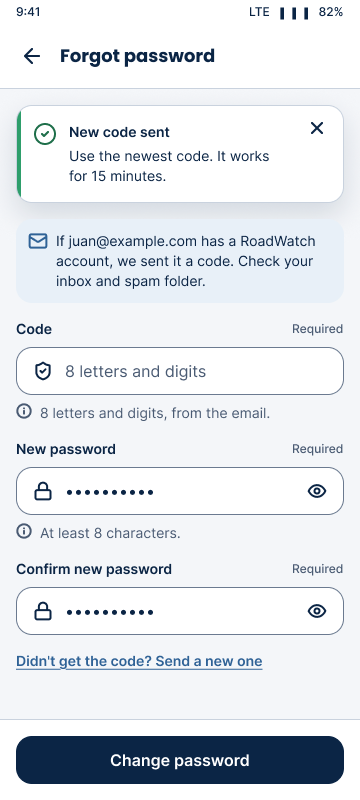
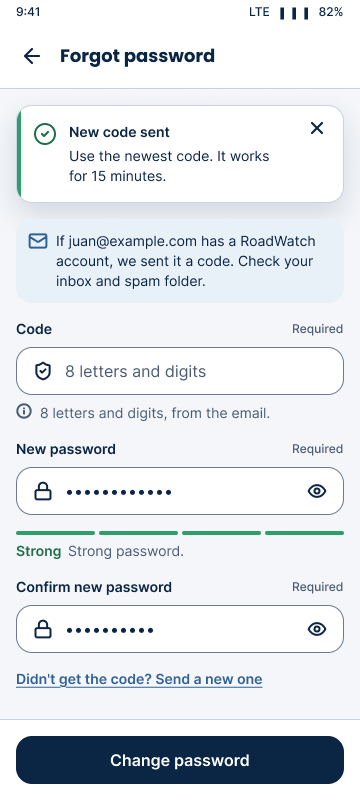
docs: password strength meter (#44): DECISIONS #44, API rule, test cases, Figma index and re-exported screens

Changed region(s): [[0.0306, 0.6562, 0.9778, 0.875]]

diff --git a/docs/API.md b/docs/API.md
@@ -11,6 +11,17 @@ Values that must match the database exactly:
 - **Injury:** `none`, `injuries`, `fatalities`, `unknown`
 - **record_type:** `public_submission` or `verified_record` (the response also has `is_verified_record`; show a clear Verified/Public badge)
 
+**Password strength (#44, DECISIONS #44).** Every endpoint that sets a new password (register, `POST /users`,
+change password, reset password, admin reset) refuses a password that is not **Strong** with **400**
+`"Make the password Strong to save it."` under the password field (`details.password` or `details.new_password`).
+Kinds of character: lowercase, uppercase, number, symbol. Weak: under 8 characters, one kind, a common password
+(`password`, `qwerty`, `12345678`, also with numbers or symbols added at the end or look-alike swaps such as `P@ssw0rd`),
+or containing the account's name or email. Fair: 8+ with 2 kinds. Good: 8+ with 3 kinds, or 12+ with 2. **Strong: 8+
+with all 4 kinds, or 12+ with 3.** The rule lives in `api/src/utils/passwordStrength.js`; the web
+(`web/src/lib/passwordStrength.js`) and the app (`mobile/lib/core/password_strength.dart`) use the same rules for the
+meter. Login is unchanged, so existing passwords keep working. `npm run seed:admin` refuses a non-Strong `ADMIN_PASSWORD`.
+
+
 ## Public
 
 | Method and path | Body | Notes |
@@ -19,13 +30,13 @@ Values that must match the database exactly:
 | GET `/app-info` | | `{"demoVideoUrl": string or null}` |
 | GET `/public/stats` | | Landing stats bar (#40): `{ reports_received, verified_records, cases_resolved, active_officers }`. Counts only, no personal data. Rate limited (60 a minute per IP, `PUBLIC_RATE_LIMIT`), `Cache-Control: max-age=60`. |
 | GET `/public/updates` | | Landing "Public road updates" (#23): up to 20 `verified_record` reports whose accident date is in the last 7 days, newest first. Each item: `report_id`, `accident_type: { type_name }`, `accident_date`, `accident_time`, `accident_location`, `latitude`, `longitude` (numbers or null), `report_status`, `record_type`. Never reporter or contact fields, description, remarks or photos. Same rate limit and cache as `/public/stats`. |
-| POST `/auth/register` | `full_name`, `contact_email`, `password` (8+), `contact_phone?` | Always a Reporter. Returns `{ user, token }`. |
+| POST `/auth/register` | `full_name`, `contact_email`, `password` (Strong, see below), `contact_phone?` | Always a Reporter. Returns `{ user, token }`. |
 | POST `/auth/login` | `contact_email`, `password`, `platform` (`web` or `mobile`, required) | Returns `{ token, user: { user_id, full_name, contact_email, contact_phone, role } }`. Use `user.role` for the role-based redirect. Platforms (#36): Reporter and Traffic Officer sign in with `mobile`, Administrator with `web`. A correct password on the wrong platform returns **403** `{ success: false, error, details: { code: "WRONG_PLATFORM", platform } }`, where `details.platform` is the platform the account must use; it is written to the audit log as `auth.login_wrong_platform`. A correct password on a deactivated account returns **403** `details.code = "ACCOUNT_DEACTIVATED"` (#40), shown as "Account deactivated" in the apps. A wrong password or unknown email always returns 401 first, so neither message reveals whether an email exists. A missing or unknown `platform` returns 400. |
 | GET `/auth/me` | | Current user |
 | PATCH `/auth/me` | `full_name`, `contact_phone?` (string or `null` to clear) | Edit own profile (#25). Email and role cannot be changed here (extra fields are ignored). Returns `{ user }`. Audit: `account.profile_updated`. |
-| PATCH `/auth/me/password` | `current_password`, `new_password` (8+, different from the current one) | Change own password (#25). A wrong current password is **400** with `details.current_password` (not 401, so the apps keep the session). Rate limited like login. Existing tokens stay valid. Audit: `account.password_changed`. |
+| PATCH `/auth/me/password` | `current_password`, `new_password` (Strong, different from the current one) | Change own password (#25). A wrong current password is **400** with `details.current_password` (not 401, so the apps keep the session). Rate limited like login. Existing tokens stay valid. Audit: `account.password_changed`. |
 | POST `/auth/forgot-password` | `contact_email` | Forgot password, step 1 (#37, every role). Always **200** with the same message, whether or not the email has an account (or the account is deactivated). For an active account it emails an 8-character code (letters and digits, no 0/O/1/I/L), valid **15 minutes**. The code is not stored: it is an HMAC of the user id, the current password hash and the minute, keyed with `JWT_SECRET`, so it stops working once the password changes. Rate limited like login. Audit: `auth.password_reset_requested`. |
-| POST `/auth/reset-password` | `contact_email`, `reset_code`, `new_password` (8+) | Forgot password, step 2. Case, spaces and dashes in the code do not matter. A wrong or expired code, an unknown email and a deactivated account all get the same **400** `This code is wrong or has expired. Send a new code.` with `details.reset_code`. Other signed-in devices stay signed in. Emails the user that the password changed. Audit: `account.password_reset`. |
+| POST `/auth/reset-password` | `contact_email`, `reset_code`, `new_password` (Strong) | Forgot password, step 2. Case, spaces and dashes in the code do not matter. A wrong or expired code, an unknown email and a deactivated account all get the same **400** `This code is wrong or has expired. Send a new code.` with `details.reset_code`. Other signed-in devices stay signed in. Emails the user that the password changed. Audit: `account.password_reset`. |
 | GET `/auth/me/activity` | `period` (`7d`, `30d` default, `90d`, `all`), `action?`, `page`, `limit` | Action log, own actions (#27). Rows: `{ log_id, user_id, action_taken, action_details (object), timestamp }` plus `pagination`. `action` matches exactly (`auth.login`) or as a group (`user` matches `user.*`). User ids inside `action_details` come with names (`target_name`, `officer_name`). |
 
 ## Any logged-in user
@@ -62,11 +73,11 @@ Values that must match the database exactly:
 | PATCH `/admin/reports/:id/status` | `status`, `remarks?`, `rejection_reason` (required when `Rejected`) | Not for `Assigned` (use assign). `Verified` sets `record_type = verified_record`. |
 | PATCH `/admin/reports/:id/assign` | `officer_id`, `remarks?` | Sets status `Assigned`. The report must be **Verified** first (#30), or already have an officer (re-assign); never Rejected or Resolved/Closed. The officer must be an active Traffic Officer. |
 | POST `/admin/accident-types` | `type_name` | Add a category |
-| POST `/users` | `full_name`, `contact_email`, `password`, `role`, `contact_phone?` | Creates Traffic Officers (or any role) |
+| POST `/users` | `full_name`, `contact_email`, `password` (Strong), `role`, `contact_phone?` | Creates Traffic Officers (or any role) |
 | GET `/users` | `role?` | |
 | PATCH `/users/:id/role` | `role` | Not on yourself |
 | PATCH `/users/:id/active` | `is_active` (boolean) | Deactivate or reactivate. Not on yourself. |
-| PATCH `/users/:id/password` | `new_password` (8+) | Admin reset (#37): sets a temporary password for a Reporter or Traffic Officer, which the admin gives to the person directly. **400** on yourself (use Change password) or on another Administrator (they use Forgot password). The user gets an email that the password was reset, never the password. Audit: `user.password_reset`. |
+| PATCH `/users/:id/password` | `new_password` (Strong) | Admin reset (#37): sets a temporary password for a Reporter or Traffic Officer, which the admin gives to the person directly. **400** on yourself (use Change password) or on another Administrator (they use Forgot password). The user gets an email that the password was reset, never the password. Audit: `user.password_reset`. |
 | GET `/admin/audit-logs` | same as `/auth/me/activity`, plus `user_id?` | Action log, "All staff" view (#27): actions by Administrators and Traffic Officers (reporters left out); each row adds `user: { user_id, full_name, role }`. |
 | GET `/dashboard/stats` | | `cards` (total, pending, verified, closed), `by_status`, `by_type`, `trend` (last 30 days), `hotspots`, `map_points`, `recent` |
 | GET `/exports/summary` | `period` = daily, weekly, monthly or annual; `date?` (YYYY-MM-DD) | FR-12 summary JSON |

diff --git a/CLAUDE.md b/CLAUDE.md
@@ -104,6 +104,7 @@ Clients ─► OpenStreetMap tiles and Nominatim directly
 `/api/auth` (register is public and always creates a Reporter, ignoring any client role; login rejects inactive users), `/api/reports` (create, my reports, track), `/api/admin/reports` (filter, verify, assign, status), `/api/officer/reports` (assigned, remarks, status), `POST /api/users` (admin only, creates Traffic Officers), user role change and deactivate or reactivate (admin only), `/api/dashboard/stats`, `/api/exports`, `/api/app-info`, `GET /api/public/stats` (public totals for the landing, #40).
 **Added Oct 21 (approved Oct 17):** `PATCH /api/auth/me` and `PATCH /api/auth/me/password` (own profile and password, #25); `GET /api/public/updates` (public, verified records from the last 7 days, no reporter fields, #23; feeds the landing's "Public road updates", #24); `GET /api/auth/me/activity` and admin-only `GET /api/admin/audit-logs` (Action log, #27).
 **Added Oct 25 (#37, DECISIONS #43):** public `POST /api/auth/forgot-password` and `POST /api/auth/reset-password` (8-character emailed code, 15 minutes, works once, not stored: HMAC of user id + password hash + minute keyed with `JWT_SECRET`; same answer for unknown emails) and admin-only `PATCH /api/users/:id/password` (temporary password for a Reporter or Traffic Officer; not self, not other admins; emailed without the password).
+**Added Oct 27 (#44, DECISIONS #44):** every endpoint that sets a new password (register, `POST /users`, change, reset, admin reset) refuses a password that is not **Strong** (400 "Make the password Strong to save it."); rules in `api/src/utils/passwordStrength.js`, mirrored in `web/src/lib/passwordStrength.js` and `mobile/lib/core/password_strength.dart` for the meter; `seed:admin` refuses a non-Strong `ADMIN_PASSWORD`. Login is unchanged.
 
 ---
 
@@ -256,7 +257,7 @@ Rules: every status change writes a `report_status_history` row; important admin
 | api | `npm start` | `node server.js`, default port 5000 |
 | api | `npm test` | `node --test` (auto-discovers `tests/*.test.js`) |
 | api | `npm run lint` | placeholder echo only, no linter configured |
-| api | `npm run seed:admin` | creates the first Administrator from `.env` |
+| api | `npm run seed:admin` | creates the first Administrator from `.env` (`ADMIN_PASSWORD` must be Strong, #44) |
 | api | `npm run check:db` | connects with `.env` DB settings, prints table count, seed counts and whether `users.is_active` exists |
 | web | `npm run dev`, `npm run build`, `npm run lint` | after Vite is generated |
 | mobile | `flutter pub get`, `flutter analyze`, `flutter run`, `flutter build apk --release` | after Flutter is generated |
@@ -272,6 +273,7 @@ Health checks: `GET /api/health` returns `{"status":"ok","service":"roadwatch-ap
 - Automated API tests: 27 (JWT guard, health/app-info, login platform validation, 5 Brevo mailer unit tests with a mocked `fetch`, and a 16-step database flow covering register, roles, the login platform check, report lifecycle including verify-before-assign #30, officer scoping, deactivation, notifications, dashboard, exports, public updates #23, own profile and password #25, action log #27, upload validation). All 27 passed on Oct 23 on Node 22.23.4 + local MariaDB 10.11 (new: Report ID search, deactivated login 403, officer lock on Rejected) (the dashboard step also checks `GET /public/stats`, #40). The database flow only runs with `RUN_DB_TESTS=true` and a local database; CI runs it against a MySQL 8 service. Passed on Node 22 + MariaDB 10.11, not yet on the user's repo or MySQL 8.
 - Pauline owns a manual test plan (`docs/test-plan.md`, drafted Oct 21 from the built system for her review, #14): one test case per FR-01 to FR-15 (steps, expected, actual, pass/fail), executed on the deployed system around Oct 29. Add accessibility checks for the WCAG AA target (keyboard-only pass, contrast check, screen-reader labels, phone-width layout).
 - **First full manual run (Oct 23, Pauline, live system, APK v1.0.0):** 5 Fails plus 2 problems seen in the evidence, filed as issues #39 to #44 and fixed the same day (DECISIONS #42; API, web, and APK v1.0.1). TC-02.4 was a wording mismatch (the button says "Get the Android app"); TC-08.2's evidence showed a later assignment, not the refusal. Re-tested Oct 24-25 on the live system with APK v1.0.1 (released Oct 24): all 10 Pass, issues closed (`docs/test-plan-retest.md`). First-run gaps closed Oct 25: TC-08.7 and 09.3 Pass (Lenon); TC-03.3, 06.1, 06.2 confirmed by Lenon and checked by Claude on local builds (admin report page shows Injuries Unknown in Chromium; My reports list, status filter and role-only history in Flutter renders and widget tests). Admin password changed during TC-14.3. #23 closed. Features #37 (Forgot password, all roles, plus admin reset), #45 (show/hide password) and #46 (full-screen photo and map) were decided Oct 25 (DECISIONS #43), drawn in Figma, approved by Lenon, then coded (API 30/30 tests incl. the reset flow and 2 code unit tests; web checked in Chromium on a local API; mobile v1.0.2, 44 widget tests). New manual cases TC-02.7 to 02.9, 04.4, 07.4 to 07.6, 13.6 in `docs/test-plan.md` all passed on the live system (Lenon, Oct 26, after PR #47 merged); issues #37, #45, #46 closed. APK v1.0.2 comes from the `v1.0.2` tag.
+- **Password strength meter (#44, Oct 27):** Figma approved by Lenon, then coded: API 32/32 tests on Node 22.23.4 + local MariaDB 10.11 (strength unit tests and Strong checks on register, create officer, change, reset and admin reset); web lint, build and a Chromium check against a local API (every level, the error, the name check, screen-reader wiring); mobile v1.0.3, `flutter analyze` clean, 46 widget tests. Not yet checked on the live system or a phone.
 - CI runs lint, test and build per folder on PRs and pushes to `dev` and `main`.
 - `mailer.js` (Brevo) is unit-tested with a mocked `fetch`, ran in log mode during the database flow, and sent a real email from Render on Oct 21 (reported by Lenon).
 - Always report tests you could not run.

diff --git a/docs/DECISIONS.md b/docs/DECISIONS.md
@@ -47,3 +47,4 @@ Last updated: Oct 20, 2026 (professor's rulings #35 and #36, Brevo email API #37
 | 41 | Motion and scroll animation (Oct 20) | Lenon asked for a site that feels alive while scrolling. **Library:** GSAP 3.13+ with ScrollTrigger and DrawSVG (`@gsap/react`); Framer Motion is dropped (it was never installed); Three.js, WebGL and Anime.js are not used. **Feel:** calm but alive: reveals, count-ups, parallax on the hero photo, line drawing, FAQ bubbles arriving like a chat; no scroll hijacking (native scroll). **Hero:** a road-and-pin story (an SVG road draws itself, a map pin drops on it, then the report card and timeline arrive). **Scope:** public web pages, the admin dashboard (subtle, no scroll effects) and the Flutter app (built-in animation tools, no new package). **Accessibility:** with reduce motion on (browser setting, Android setting or the app's Reduce motion), everything becomes a short fade; nothing loops forever. **Process:** motion spec (`docs/ui-design/motion-spec.md`) and Figma key frames first, approved, then coded; done before Carl's #30 and #37 work and before the Oct 27 cut-off. | Final (Oct 20); spec and Figma approved, coded Oct 21 (web public pages and admin, Flutter app) |
 | 42 | Fixes from the first full test run (Oct 23) | Pauline's run of `docs/test-plan.md` on the live system found 5 Fails and the evidence showed 2 more; each is a GitHub issue. **Login:** a deactivated account with the right password now gets 403 `ACCOUNT_DEACTIVATED` and the Figma M0 "Account deactivated" message (issue #40); a wrong password or unknown email still gets the one generic 401, so the change reveals nothing to someone without the password (same rule as `WRONG_PLATFORM`). **Workflow:** a report the administrator Rejected is closed for the officer (API 409 `REPORT_REJECTED`, app hides Update status; issue #44); only the administrator can reopen it. **Web:** Log out lands on the Administrator sign-in page (issue #41); account dialogs show the API's field errors under the field (issue #43). **Search:** the Report ID can be typed as shown, `RW-000004` (issue #39). **PDF export:** landscape table with page numbers (issue #42). Mobile changes ship as APK v1.0.1. | Final (Oct 23); coded, API 27/27 and mobile 39 tests pass, web checked in Chromium on a local API; Figma updated the same day but **after** the code (an exception to #33; Lenon restated Figma first, then code): W1 Deactivated account `363:25944`, W1 Error copy, W2 Change password dialog `365:16149`, O2 Rejected `366:3848`, Flows Log out → B1; re-tested Oct 24-25 on the live system with APK v1.0.1: all Pass, issues #39 to #44 closed |
 | 43 | Password recovery, show/hide password, full-screen photo and map (Oct 25) | Lenon's answers to the guiding questions in issues #37, #45 and #46, to build before the Oct 27 freeze, Figma first (#33). **Forgot password (#37), every role:** Reporter and Traffic Officer from the mobile login (M0), Administrator from the web sign-in (W1); a code typed in the app (8 letters and digits, valid 15 minutes, works once; stateless, no new table); the answer to "send code" never reveals whether an email exists; other signed-in devices are not signed out (tokens expire on their own; no auth-model or schema change). **Admin reset (#37):** kept as well, on W6 Users for Reporters and Traffic Officers (not for the admin's own account), audited and emailed without the password. **Show/hide password (#45):** one eye button per password field, icon only (labelled "Show password" / "Hide password"), no auto-hide; on W1, W2 Change password, W6 Create officer, mobile Change password and the new Forgot password fields. **Full screen (#46):** every map gets a full-screen view (W0 landing "Public road updates", W2 hotspots, W4, O2, M6, and M3 where the pin can be moved); the photo viewer shows all photos of a report uncropped with "Photo 2 of 3", previous/next or swipe, zoom and close on web and mobile; no photo download; officers keep "Open in Maps". | Decided (Oct 25); Figma frames approved by Lenon Oct 25 (Mobile 396:*, 406:*; Web 403:*, 404:*, 410:*; Flows G and H), then coded: API `POST /auth/forgot-password`, `POST /auth/reset-password`, `PATCH /users/:id/password` (30/30 API tests), web (Chromium check on a local API), mobile v1.0.2 (44 widget tests). Merged Oct 26 (PR #47); the new test cases passed on the live system (Lenon) and issues #37, #45, #46 were closed |
+| 44 | Password strength meter (Oct 27) | Lenon's answers to the guiding questions (Oct 26): a meter only under fields that **set a new password** (Register, Change password, Forgot password, admin Create officer and Reset password; not on log in); **only Strong can be saved**, in the apps and on the server; style **bar + label + tip** (4 segments, the level word, one tip; the word is always shown, so the level never depends on color alone); scoring with **simple rules in our own code** (no library). Levels: Weak (under 8 characters, one kind of character, a common password, or the account's name/email), Fair (8+ with 2 kinds), Good (8+ with 3 kinds, or 12+ with 2), Strong (8+ with all 4 kinds: lowercase, uppercase, number, symbol, or 12+ with 3). Also approved: `npm run seed:admin` refuses a non-Strong `ADMIN_PASSWORD`, and admin temporary passwords (Create officer, Reset password) must be Strong. Existing passwords keep working (login is unchanged). Error under the field: "Make the password Strong to save it." Figma example "Liza-2026-temp" (it contains the name) became "Harbor-Bay-2026"; the app name "Roadwatch" is not on the common list, matching the approved "Roadwatch#2026" example. | Decided (Oct 26); Figma approved by Lenon Oct 27 (Components 422:4211; Mobile 109:239, 109:323, 162:2396, 396:4169, 396:4309, 419:4438; Web 128:2944, 128:3348, 365:16149, 403:16316, 403:16479, 404:16418, 404:16490, 419:40475), then coded: API (32/32 tests), web (Chromium check on a local API), mobile v1.0.3 (46 widget tests). |

diff --git a/docs/test-plan.md b/docs/test-plan.md
@@ -23,9 +23,10 @@ Never put real passwords in this file. Use made-up test data (no real accident v
 
 | ID | Steps | Expected | Actual | Result |
 |---|---|---|---|---|
-| TC-01.1 | On the app: Create account, enter full name, a new email, password of 8+ characters, optional mobile number; submit | Account created as a **Reporter** and signed in to Home (no role choice is offered) | | |
+| TC-01.1 | On the app: Create account, enter full name, a new email, a **Strong** password (8+ with uppercase, lowercase, a number and a symbol), optional mobile number; submit | Account created as a **Reporter** and signed in to Home (no role choice is offered) | | |
 | TC-01.2 | Register again with the same email | "An account with this email already exists. Log in instead." on the Email field; no second account | | |
-| TC-01.3 | Register with a 6-character password, then with an empty full name | Field errors ("at least 8 characters", name required); nothing is sent until fixed | | |
+| TC-01.3 | Register with a 6-character password, then with an empty full name | Field errors ("Make the password Strong to save it." with the meter at **Weak**, "Use at least 8 characters (6 so far)."; name required); nothing is sent until fixed | | |
+| TC-01.4 | Type into the Register password, one step at a time: `Abc12!`, `Sunflower`, `Sunflower7`, `Sunflower7!`; then a password with your own name (e.g. `Juan#2026x` for Juan Dela Cruz) and `Password1!` (#44) | The meter shows 1 red segment **Weak**, 2 amber **Fair** ("Add a number and a symbol"), 3 blue **Good** ("Add a symbol, or use 12+ characters"), 4 green **Strong**; the name and the common password both show **Weak** with a tip; only Strong can be saved; the level word is always shown next to the bar | | |
 
 ### FR-02 User login and logout
 
@@ -40,6 +41,7 @@ Never put real passwords in this file. Use made-up test data (no real accident v
 | TC-02.7 | Mobile (R1, then O1): Log in > **Forgot password?** > email > Send code; type the 8-character code from the email and a new password (#37) | "If ... has a RoadWatch account, we sent it a code"; a wrong code shows "This code is wrong or has expired. Send a new code." under Code; the right code returns to Log in with "Password changed"; the new password works, the old one does not | | |
 | TC-02.8 | Web (A1): `/staff/sign-in` > **Forgot password?**, same steps; then try the same code again, and a code older than 15 minutes (#37) | Same as TC-02.7 on the web; a used or expired code is refused; an unknown email gets the same "we sent it a code" message (nothing reveals whether an account exists) | | |
 | TC-02.9 | Every password field (mobile Log in, Register, Change password, Forgot password; web sign-in, Change password, Create officer, Reset password): press the eye (#45) | The password shows and the icon becomes the crossed eye; it stays shown until pressed again; screen readers hear "Show password" / "Hide password" | | |
+| TC-02.10 | Mobile Change password, web Change password and both Forgot password screens: enter a **Good** new password (e.g. `Sunflower7`) and save (#44) | Not saved: "Make the password Strong to save it." under New password, meter at Good with its tip; a Strong password saves | | |
 
 ### FR-03 Accident reporting (mobile)
 
@@ -138,6 +140,7 @@ Never put real passwords in this file. Use made-up test data (no real accident v
 | TC-13.4 | Reactivate R2 | R2 can log in again | | |
 | TC-13.5 | A1 tries to deactivate or change the role of A1's own account | Not offered in the UI ("You can't deactivate your own account"); the API refuses it too | | |
 | TC-13.6 | A1: Users > **Reset password** on R2 (temporary password + confirm), then log in as R2 with it (#37) | "Password reset" toast; R2 gets an email that the password was reset (without the password); R2 logs in with the temporary password; not offered on A1's own row or other administrators | | |
+| TC-13.7 | A1: Create officer and Reset password with a temporary password that is not Strong (e.g. `Sunflower7`), and one that contains the person's name (#44) | Refused with "Make the password Strong to save it."; the meter under the field shows the level and tip; a Strong temporary password works | | |
 
 ### FR-14 Audit trail
 

diff --git a/docs/ui-design/figma-index.md b/docs/ui-design/figma-index.md
@@ -47,6 +47,7 @@ Text styles: Heading/Hero, Display, H1, H2, H3, Stat; Body/Large, Default, Small
 | Button | `96:193` | [Open](https://www.figma.com/design/psx52NYL69RkycK7Z44EAb/RoadWatch-Wireframes?node-id=96-193) |
 | Icon button | `96:261` | [Open](https://www.figma.com/design/psx52NYL69RkycK7Z44EAb/RoadWatch-Wireframes?node-id=96-261) |
 | Text field (Show password toggle + Toggle icon eye / eye-off, #45) | `97:178` | [Open](https://www.figma.com/design/psx52NYL69RkycK7Z44EAb/RoadWatch-Wireframes?node-id=97-178) |
+| Password strength (Empty, Weak, Fair, Good, Strong; #44, under every field that sets a new password) | `422:4211` | [Open](https://www.figma.com/design/psx52NYL69RkycK7Z44EAb/RoadWatch-Wireframes?node-id=422-4211) |
 | Select | `97:279` | [Open](https://www.figma.com/design/psx52NYL69RkycK7Z44EAb/RoadWatch-Wireframes?node-id=97-279) |
 | Date time field | `97:411` | [Open](https://www.figma.com/design/psx52NYL69RkycK7Z44EAb/RoadWatch-Wireframes?node-id=97-411) |
 | Calendar popover | `97:412` | [Open](https://www.figma.com/design/psx52NYL69RkycK7Z44EAb/RoadWatch-Wireframes?node-id=97-412) |

diff --git a/docs/ui-design/screens/README.md b/docs/ui-design/screens/README.md
@@ -32,3 +32,10 @@ Added Oct 25 for #37, #45 and #46 (Figma approved by Lenon before any code; DECI
 - Re-exported: every frame with a password field (eye button, #45) or a map (Expand map button, #46), the W1 frames
   ("Forgot password?" link) and W6 (Reset password row action).
 - Oct 25, later: "New code sent" state (`mobile/m0-forgot-password-new-code-sent.png`, `web/w1-forgot-password-new-code-sent-1440.png`); `mobile/m3-location-full-screen-map.png` re-exported (button label on one line).
+
+Re-exported Oct 27 for the password strength meter (#44, Figma approved by Lenon before any code; DECISIONS #44):
+- Mobile: `m0-register-default.png`, `m0-register-validation.png`, `settings-change-password.png`, `m0-forgot-password-code.png`,
+  `m0-forgot-password-code-wrong.png`, `m0-forgot-password-new-code-sent.png`.
+- Web: `w6-users-1440.png`, `w6-users-after-deactivation-1440.png`, `w6-users-password-reset-1440.png`, `w6-reset-password-dialog.png`,
+  `w2-change-password-dialog.png`, `w1-forgot-password-code-1440.png`, `w1-forgot-password-code-390.png`,
+  `w1-forgot-password-new-code-sent-1440.png`.

diff --git a/mobile/CLAUDE.md b/mobile/CLAUDE.md
@@ -53,7 +53,8 @@ assets/fonts/                Inter 400/500/600, Poppins 700 (bundled TTF, OFL)
 ## Widgets (lib/core/widgets)
 `RwButton` (primary/secondary/destructive, 48 px, `icon`, `loading`), `RwIconButton` (needs
 `semanticLabel`, light/dark tone, `badgeCount`), `RwTextField` / `RwTextarea`, `RwPasswordField` (eye / eye-off,
-"Show password" / "Hide password", #45: use it for every password), `RwTextLink` (underlined 48 px link), `RwSelect<T>`,
+"Show password" / "Hide password", #45: use it for every password; `showStrength` + `strengthName`/`strengthEmail` add
+`RwPasswordStrength` under fields that set a new password, #44, rules in `core/password_strength.dart`, save only when `isStrong`), `RwTextLink` (underlined 48 px link), `RwSelect<T>`,
 `RwDateTimeField.date/.time` (YYYY-MM-DD, HH:MM), `RwStatusChip`, `RwRecordBadge`, `RwReportCard`
 (`.fromReport`), `RwTimelineItem`, `RwPhotoTile`, `RwMap` (OSM + attribution; pin / no pin /
 `locating`; `onExpand` adds the Expand map button, #46), `RwFullScreenMap` (`.show` read-only with address and optional

diff --git a/web/CLAUDE.md b/web/CLAUDE.md
@@ -51,7 +51,9 @@ src/
   Body text navy; text-only colors `text-text-blue|success|danger`.
 - Charts and maps get a text alternative or a data table. Images have alt text (decorative: `alt=""`).
 - Touch targets at least 44 px. Respect `prefers-reduced-motion`.
-- Password inputs use `PasswordField` (eye / eye-off, "Show password" / "Hide password", #45).
+- Password inputs use `PasswordField` (eye / eye-off, "Show password" / "Hide password", #45). Fields that set a new
+  password add `showStrength` and `person` ({ name, email }) for the meter, and the form refuses `!isStrong(...)` with
+  `NOT_STRONG` from `lib/passwordStrength.js` (#44; same rules as the API).
 - Maps: pass `onExpand` to `MapView` and render `FullScreenMap` (title, Close/Esc, `aside` = the text alternative list);
   photos open in `PhotoViewerDialog` (always dark via `bg-dark-bg`, arrows, +/- zoom, Esc, no download; #46).
 

diff --git a/api/CLAUDE.md b/api/CLAUDE.md
@@ -8,5 +8,6 @@ API conventions. Project-wide rules stay in the root `CLAUDE.md`. Endpoint contr
 - Every status change goes through `services/statusService.js` (history + audit + notification in one transaction).
 - Validation is zod in `routes/schemas.js`. Role checks use `allowRoles(...)` in `routes/index.js`. The user is re-loaded from the database on every request (deactivation is immediate).
 - Return `{ success, data }` or throw `HttpError(status, message)`.
+- New passwords must be Strong (#44): call `assertStrongPassword(password, { name, email }, field)` from `utils/passwordStrength.js` in any endpoint that sets one. Keep the web and Dart copies in step.
 - Tests: `npm test`. Database tests run only with `RUN_DB_TESTS=true` and a local DB (never Aiven; the test refuses non-local hosts).
 - Never print or commit values from `.env`.
